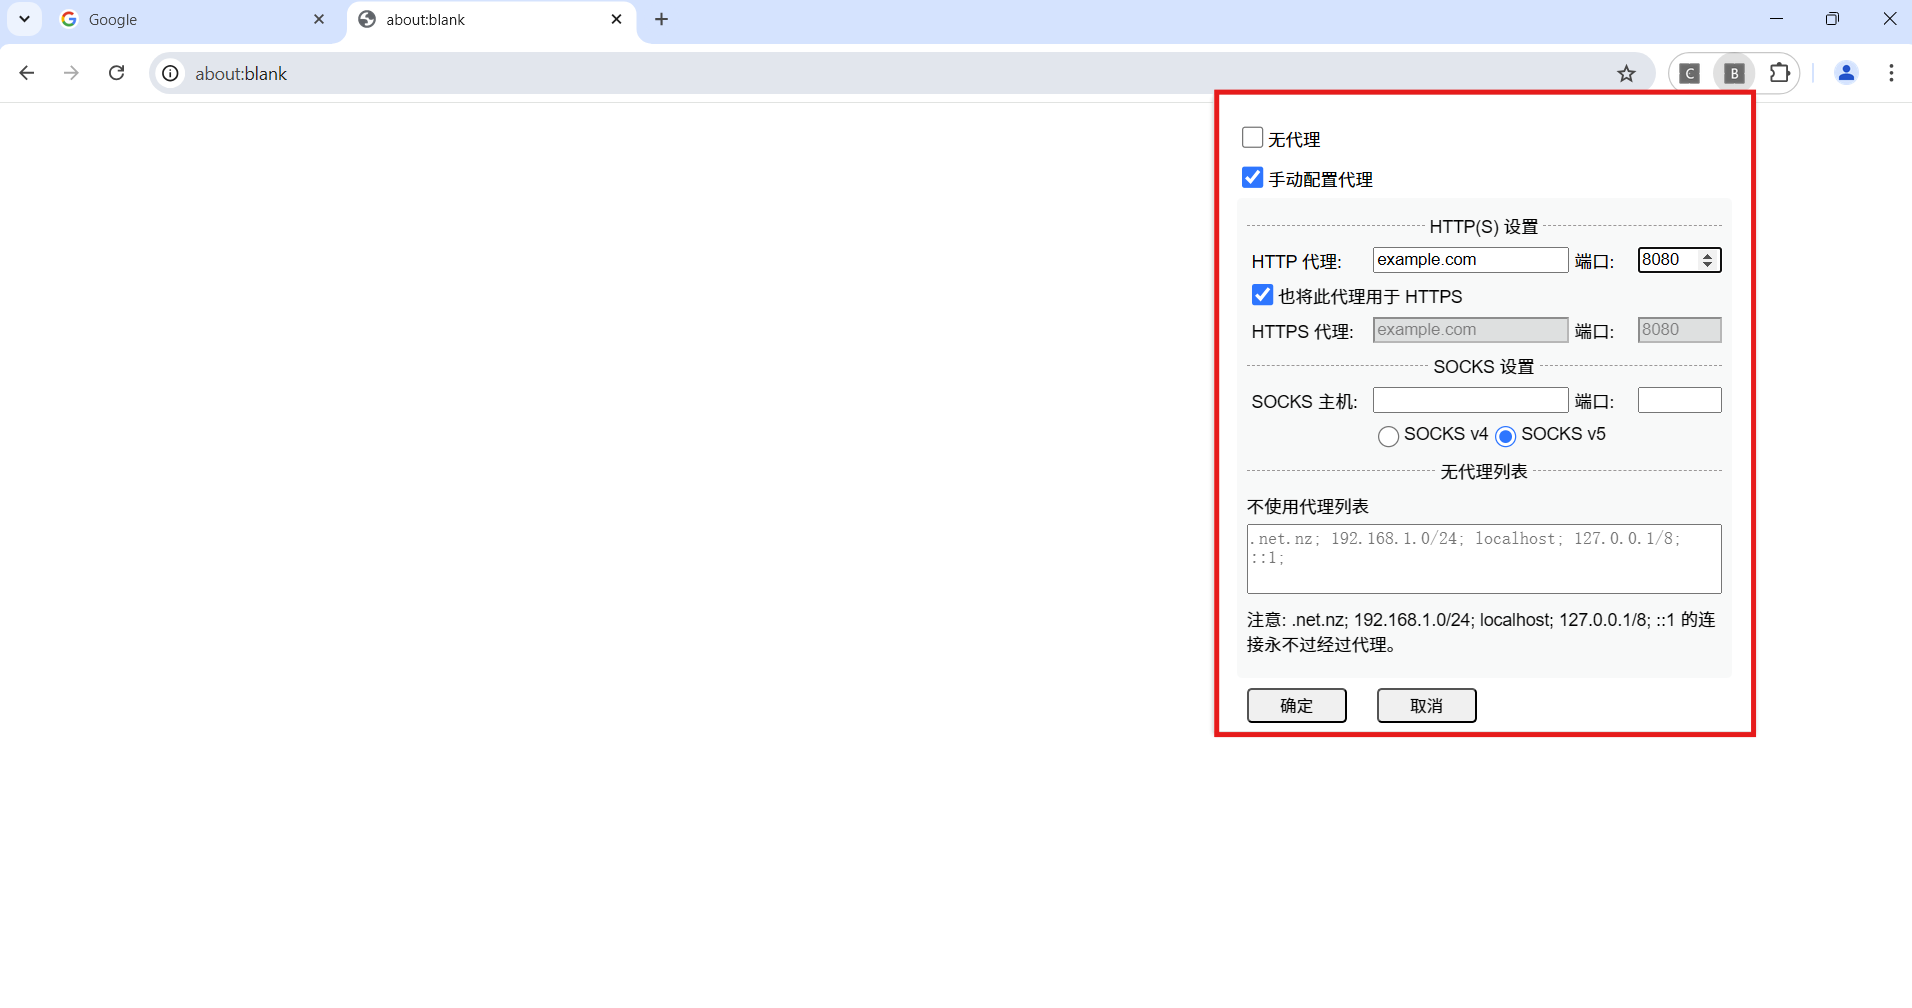
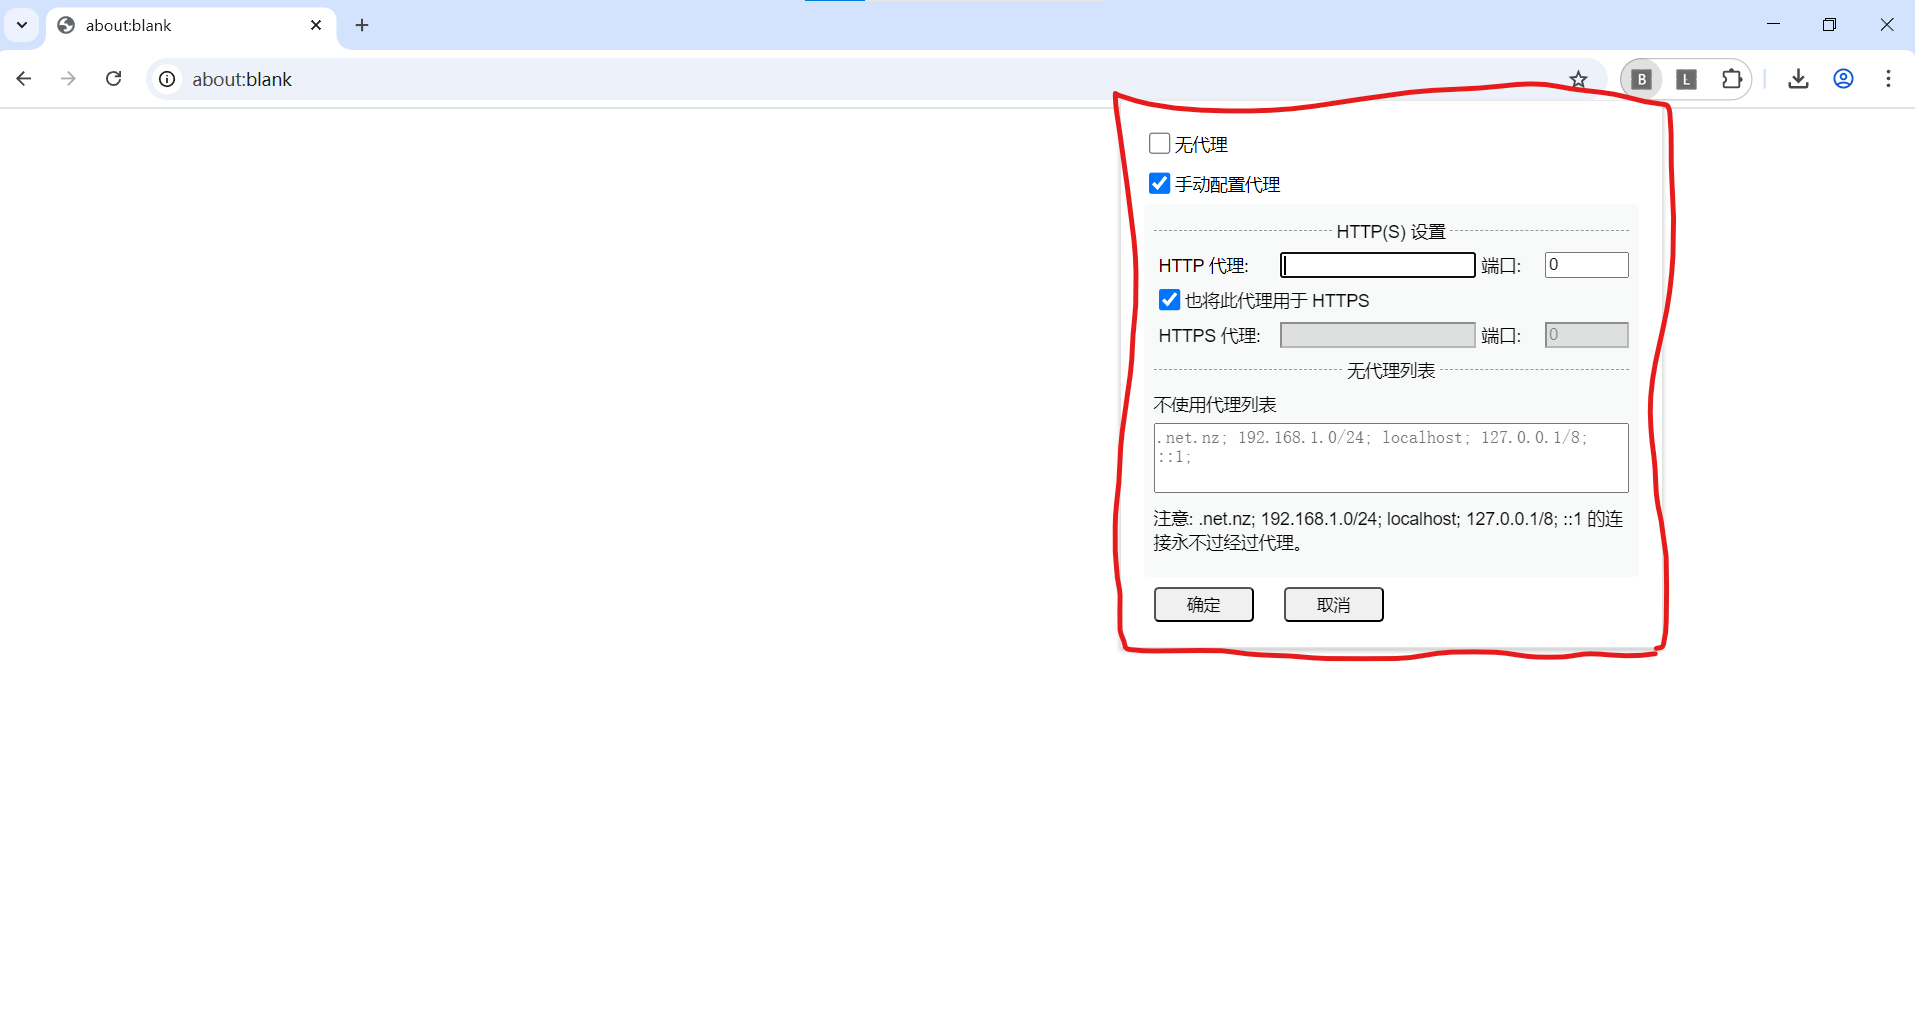
🔥 Remove useless socket settings.

Changed region(s): [[0.0, 0.0, 1.0, 0.7381]]

diff --git a/popup.html b/popup.html
@@ -1,101 +1,123 @@
 <!DOCTYPE html>
 <html lang="zh-CN">
+  <head>
+    <meta charset="UTF-8" />
+    <title>Browser_Proxy_Plugin</title>
+    <link rel="stylesheet" href="/style/app.css" />
+    <link rel="stylesheet" href="/style/elements.css" />
+    <link rel="stylesheet" href="/style/global.css" />
+  </head>
 
-<head>
-  <meta charset="UTF-8" />
-  <title>Browser_Proxy_Plugin</title>
-  <link rel="stylesheet" href="/style/app.css" />
-  <link rel="stylesheet" href="/style/elements.css" />
-  <link rel="stylesheet" href="/style/global.css" />
-</head>
-
-<body>
-  <div id="app" class="flex-column f-14">
-    <!-- 代理模式 -->
-    <div class="proxy-container flex-column">
-      <!-- 无代理 -->
-      <div class="flex-row fit m-tb-4">
-        <input type="checkbox" id="no-proxy-checkbox" name="no-proxy-checkbox" class="c-checkbox" />
-        <label for="no-proxy-checkbox" class="c-checkbox-label">无代理 </label>
+  <body>
+    <div id="app" class="flex-column f-14">
+      <!-- 代理模式 -->
+      <div class="proxy-container flex-column">
+        <!-- 无代理 -->
+        <div class="flex-row fit m-tb-4">
+          <input
+            type="checkbox"
+            id="no-proxy-checkbox"
+            name="no-proxy-checkbox"
+            class="c-checkbox"
+          />
+          <label for="no-proxy-checkbox" class="c-checkbox-label"
+            >无代理
+          </label>
+        </div>
+        <!-- 手动代理 -->
+        <div class="flex-row fit m-tb-4">
+          <input
+            type="checkbox"
+            id="manual-proxy-checkbox"
+            name="manual-proxy-checkbox"
+            class="c-checkbox"
+          />
+          <label for="manual-proxy-checkbox" class="c-checkbox-label"
+            >手动配置代理
+          </label>
+        </div>
       </div>
-      <!-- 手动代理 -->
-      <div class="flex-row fit m-tb-4">
-        <input type="checkbox" id="manual-proxy-checkbox" name="manual-proxy-checkbox" class="c-checkbox" />
-        <label for="manual-proxy-checkbox" class="c-checkbox-label">手动配置代理 </label>
-      </div>
-    </div>
 
-    <!-- 代理配置界面 -->
-    <div id="proxy-configuration" class="proxy-configuration disabled">
-      <div id="proxy-panel" class="proxy-panel flex-column not-allowed">
-        <div class="divider"><span>HTTP(S) 设置</span></div>
-        <!-- HTTP 设置 -->
-        <div class="flex-row w3-h2 m-tb-4">
-          <span class="http-s-span w1">HTTP 代理: </span>
-          <input type="text" id="http-proxy" class="http-s-input" placeholder="" />
-          <span class="http-s-span w05">端口: </span>
-          <input type="number" id="http-port" class="http-s-port" placeholder="" />
-        </div>
+      <!-- 代理配置界面 -->
+      <div id="proxy-configuration" class="proxy-configuration disabled">
+        <div id="proxy-panel" class="proxy-panel flex-column not-allowed">
+          <div class="divider"><span>HTTP(S) 设置</span></div>
+          <!-- HTTP 设置 -->
+          <div class="flex-row w3-h2 m-tb-4">
+            <span class="http-s-span w1">HTTP 代理: </span>
+            <input
+              type="text"
+              id="http-proxy"
+              class="http-s-input"
+              placeholder=""
+            />
+            <span class="http-s-span w05">端口: </span>
+            <input
+              type="number"
+              id="http-port"
+              class="http-s-port"
+              placeholder=""
+            />
+          </div>
 
-        <!-- HTTP 和 HTTPS 共用属性 checkbook -->
-        <div class="flex-row w3-h2 m-tb-4">
-          <input type="checkbox" id="use-for-https" class="c-checkbox" />
-          <label for="use-for-https" lable="c-checkbox-label">也将此代理用于 HTTPS</label>
-        </div>
+          <!-- HTTP 和 HTTPS 共用属性 checkbook -->
+          <div class="flex-row w3-h2 m-tb-4">
+            <input type="checkbox" id="use-for-https" class="c-checkbox" />
+            <label for="use-for-https" lable="c-checkbox-label"
+              >也将此代理用于 HTTPS</label
+            >
+          </div>
 
-        <!-- HTTPS 设置 -->
-        <div class="flex-row w3-h2 m-tb-4 ">
-          <span class="http-s-span w1">HTTPS 代理: </span>
-          <input type="text" id="https-proxy" class="http-s-input" placeholder="" />
-          <span class="http-s-span w05">端口: </span>
-          <input type="number" id="https-port" class="http-s-port" placeholder="" />
-        </div>
+          <!-- HTTPS 设置 -->
+          <div class="flex-row w3-h2 m-tb-4">
+            <span class="http-s-span w1">HTTPS 代理: </span>
+            <input
+              type="text"
+              id="https-proxy"
+              class="http-s-input"
+              placeholder=""
+            />
+            <span class="http-s-span w05">端口: </span>
+            <input
+              type="number"
+              id="https-port"
+              class="http-s-port"
+              placeholder=""
+            />
+          </div>
 
-        <div class="divider"><span>SOCKS 设置</span></div>
-        <!-- SOCKS 设置 -->
-        <div class="flex-row w3-h2 m-tb-4">
-          <span class="sock-s-span w1">SOCKS 主机: </span>
-          <input type="text" id="socks-host" class="sock-s-input" placeholder="" />
-          <span class="sock-s-span w05">端口: </span>
-          <input type="number" id="socks-port" class="sock-s-port" placeholder="" />
-        </div>
+          <div class="divider"><span>无代理列表</span></div>
+          <!-- 不使用代理 标签 -->
+          <div class="flex-row w3-h2 m-tb-4">
+            <label class="label-block" for="c-checkbox-label"
+              >不使用代理列表</label
+            >
+          </div>
 
-        <!-- SOCKS 协议 -->
-        <div class="flex-row w3-h2 m-tb-4">
-          <div class="sock-s-protocol flex-row">
-            <input type="radio" name="socks-version" id="socks-v4" class="c-checkbox" />
-            <label for="socks-v4" class="c-checkbox-label">SOCKS v4</label>
-            <input type="radio" name="socks-version" id="socks-v5" class="c-checkbox" checked />
-            <label for="socks-v5" class="c-checkbox-label">SOCKS v5</label>
+          <!-- 不使用代理 内容 -->
+          <div class="flex-row w3-h5 m-tb-4">
+            <textarea
+              id="bypass-list"
+              class="bypass-list"
+              placeholder=".net.nz; 192.168.1.0/24; localhost; 127.0.0.1/8; ::1;"
+            ></textarea>
+          </div>
+
+          <!-- 不使用代理 提示 -->
+          <div class="flex-row w3-h5 m-tb-4">
+            注意: .net.nz; 192.168.1.0/24; localhost; 127.0.0.1/8; ::1
+            的连接永不过经过代理。
           </div>
         </div>
+      </div>
 
-        <div class="divider"><span>无代理列表</span></div>
-        <!-- 不使用代理 标签 -->
-        <div class="flex-row w3-h2 m-tb-4">
-          <label class="label-block" for="c-checkbox-label">不使用代理列表</label>
-        </div>
-
-        <!-- 不使用代理 内容 -->
-        <div class="flex-row w3-h5 m-tb-4">
-          <textarea id="bypass-list" class="bypass-list" placeholder=".net.nz; 192.168.1.0/24; localhost; 127.0.0.1/8; ::1;"></textarea>
-        </div>
-
-        <!-- 不使用代理 提示 -->
-        <div class="flex-row w3-h5 m-tb-4">
-          注意: .net.nz; 192.168.1.0/24; localhost; 127.0.0.1/8; ::1 的连接永不过经过代理。
-        </div>
+      <!-- 确定按钮 -->
+      <div class="flex-row button-group">
+        <button id="apply-button" class="c-button">确定</button>
+        <button id="cancel-button" class="c-button">取消</button>
       </div>
     </div>
 
-    <!-- 确定按钮 -->
-    <div class="flex-row button-group">
-      <button id="apply-button" class="c-button">确定</button>
-      <button id="cancel-button" class="c-button">取消</button>
-    </div>
-  </div>
-
-  <script src="./modules/popup.js"></script>
-</body>
-
+    <script src="./modules/popup.js"></script>
+  </body>
 </html>

diff --git a/modules/popup.js b/modules/popup.js
@@ -33,8 +33,6 @@ document.addEventListener("DOMContentLoaded", function () {
   const httpPortInput = document.getElementById("http-port");
   const httpsProxyInput = document.getElementById("https-proxy");
   const httpsPortInput = document.getElementById("https-port");
-  const socksHostInput = document.getElementById("socks-host");
-  const socksPortInput = document.getElementById("socks-port");
   const bypassListInput = document.getElementById("bypass-list");
   const useForHttpsCheckbox = document.getElementById("use-for-https");
   const applyButton = document.getElementById("apply-button");
@@ -120,8 +118,6 @@ document.addEventListener("DOMContentLoaded", function () {
         httpsPort: useForHttpsCheckbox.checked
           ? httpPortInput.value
           : httpsPortInput.value,
-        socksHost: socksHostInput.value,
-        socksPort: socksPortInput.value,
         // 保存合并后的 bypassList
         bypassList: finalBypassList,
         useForHttps: useForHttpsCheckbox.checked,
@@ -159,10 +155,6 @@ document.addEventListener("DOMContentLoaded", function () {
       httpsProxyInput.value = initialSettings.httpsProxy;
     if (initialSettings.httpsPort)
       httpsPortInput.value = initialSettings.httpsPort;
-    if (initialSettings.socksHost)
-      socksHostInput.value = initialSettings.socksHost;
-    if (initialSettings.socksPort)
-      socksPortInput.value = initialSettings.socksPort;
 
     const userBypassList = initialSettings.bypassList
       ? initialSettings.bypassList
@@ -203,8 +195,6 @@ document.addEventListener("DOMContentLoaded", function () {
       if (result.httpPort) httpPortInput.value = result.httpPort;
       if (result.httpsProxy) httpsProxyInput.value = result.httpsProxy;
       if (result.httpsPort) httpsPortInput.value = result.httpsPort;
-      if (result.socksHost) socksHostInput.value = result.socksHost;
-      if (result.socksPort) socksPortInput.value = result.socksPort;
 
       // 合并不显示默认去掉的bypassList
       const userBypassList = result.bypassList ? result.bypassList : [];

diff --git a/style/app.css b/style/app.css
@@ -5,7 +5,7 @@ body {
 }
 
 #app {
-  height: 472px;
+  height: 400px;
   width: 396px;
 }
 
